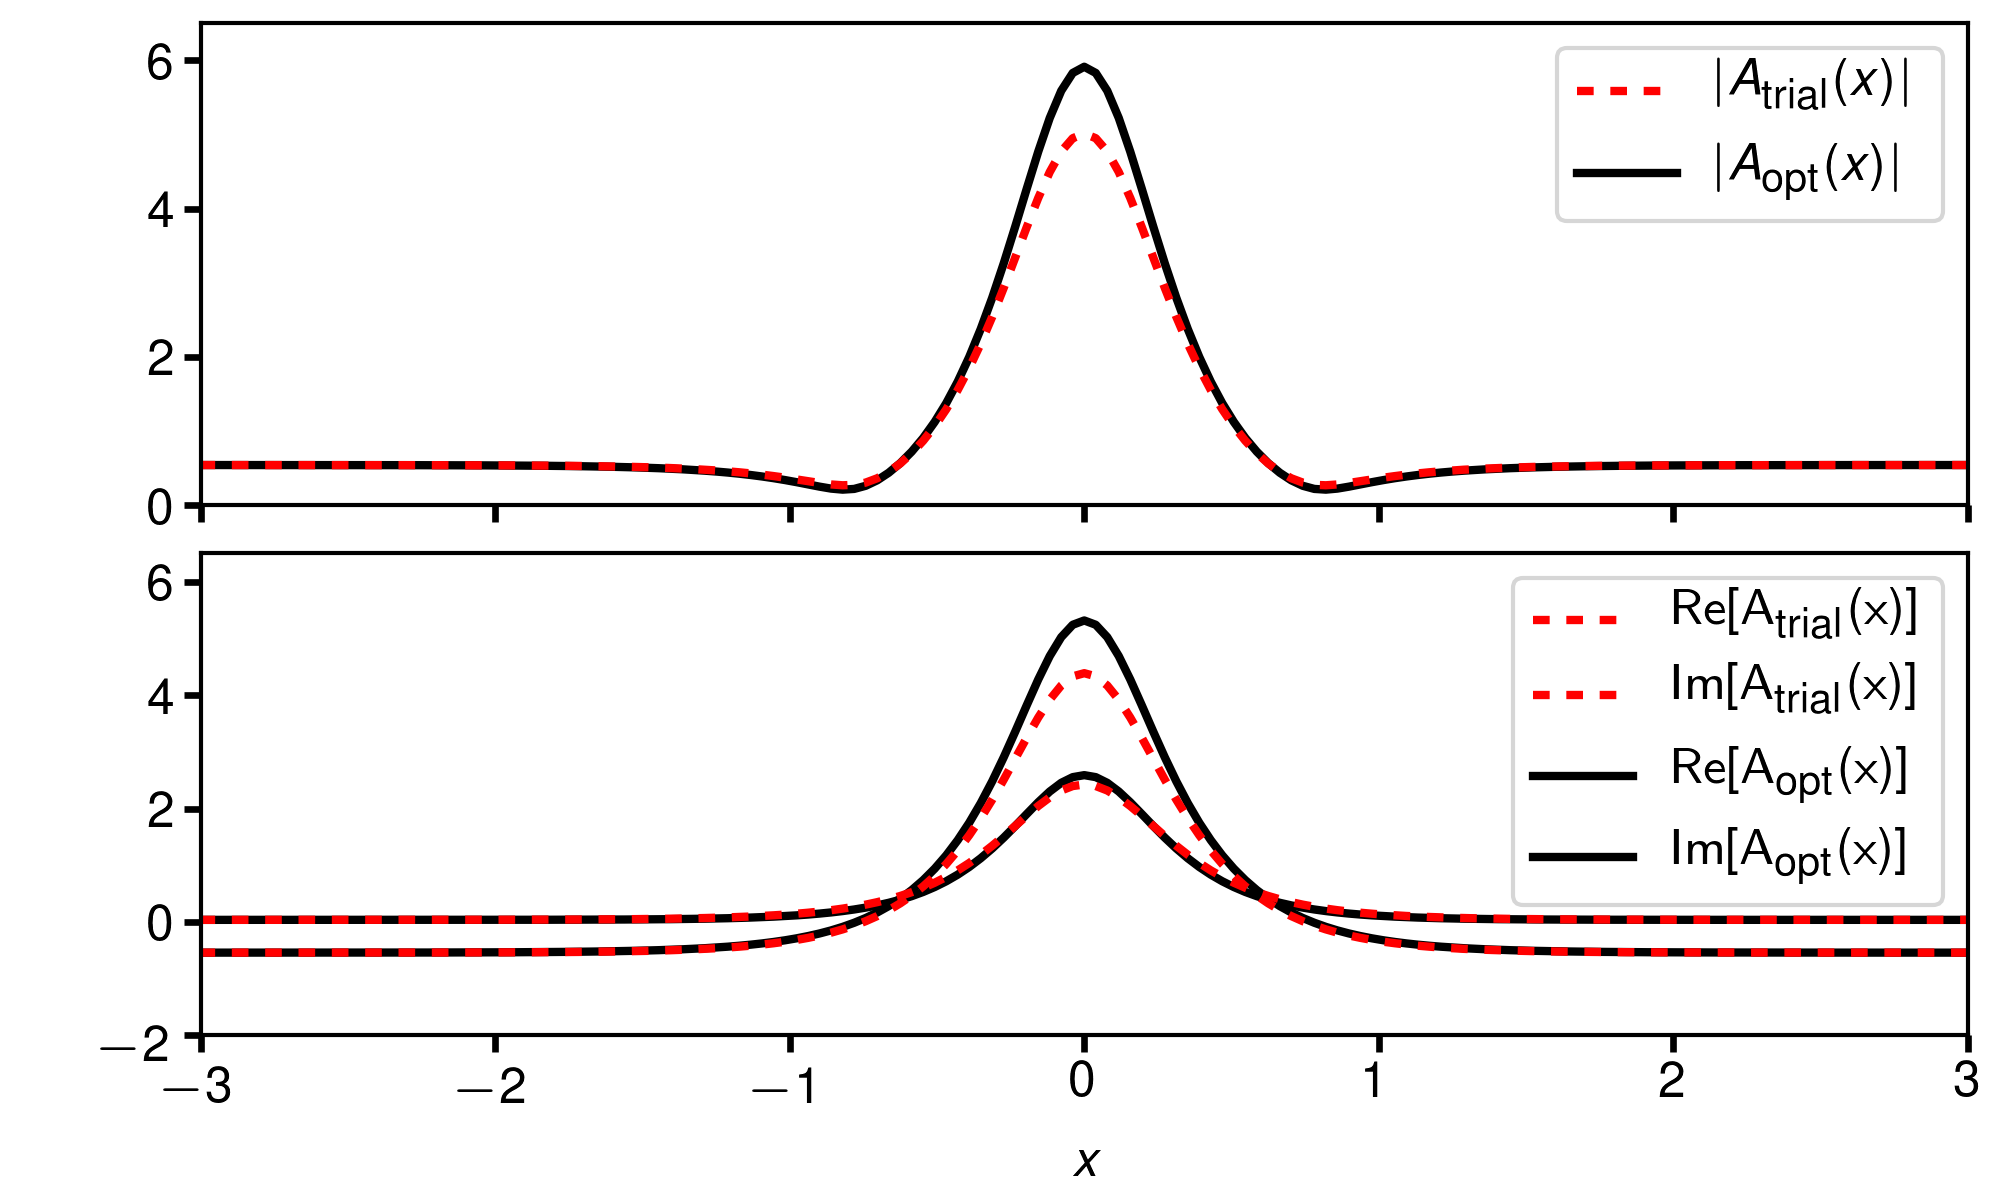
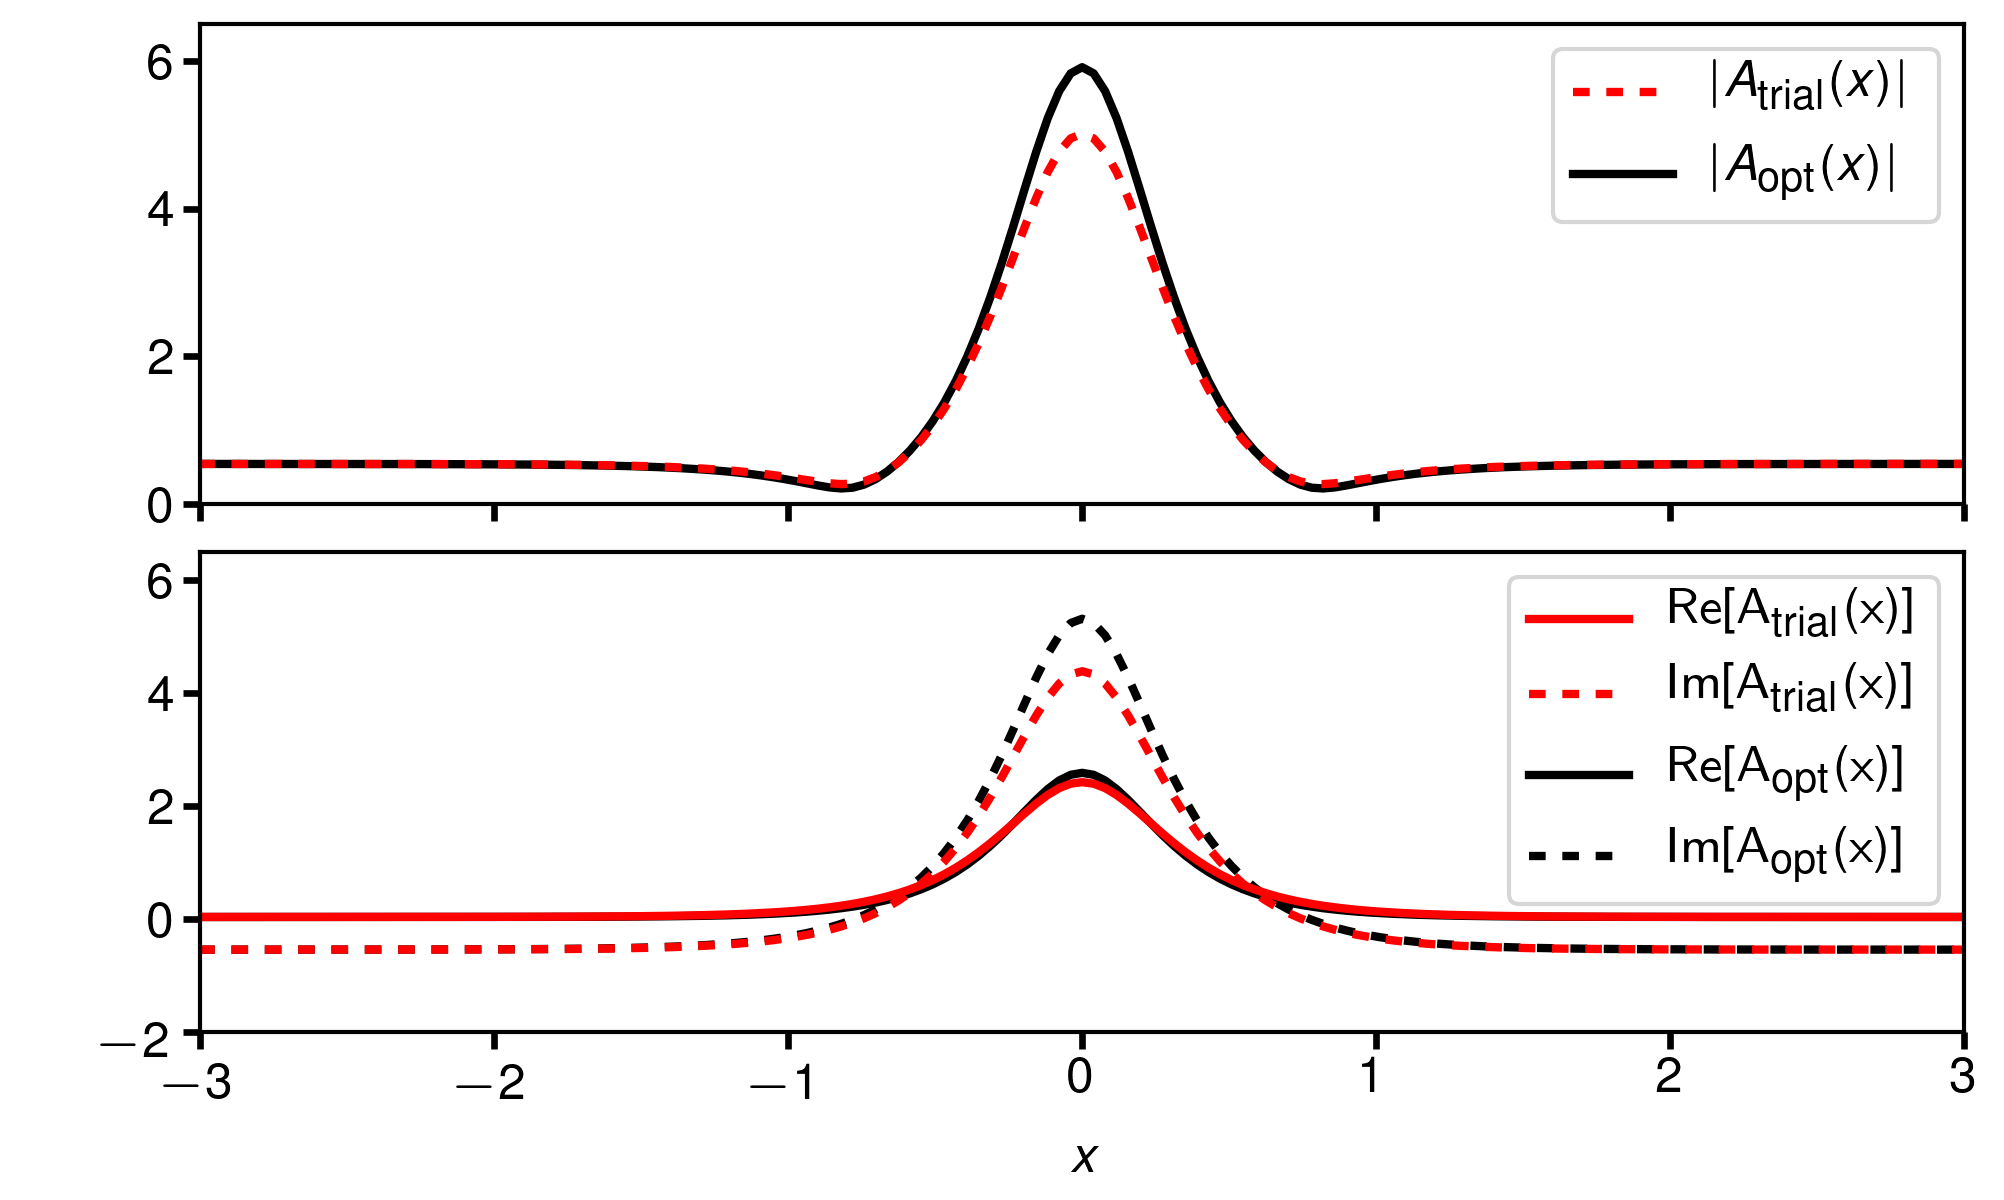
minor edits for python3 compatibility

diff --git a/numExp02_propagationScenarios/pp_figure_propagationScenarios/figure_base_propagationDynamics.py b/numExp02_propagationScenarios/pp_figure_propagationScenarios/figure_base_propagationDynamics.py
@@ -34,12 +34,10 @@ def generateFigure(x, k, t, At, xLim, xTicks, kLim, kTicks, tLim, tTicks, oName,
        r'\sansmath'               # <- tricky! -- gotta actually tell tex to use!
     ]
 
-    #cmap=mpl.cm.get_cmap('CMRmap')
-    #cmap=mpl.cm.get_cmap('gnuplot')
     cmap=mpl.cm.get_cmap('jet')
 
     fig = plt.figure()
-    plt.subplots_adjust(left=0.08, bottom=0.19, right=0.98, top= 0.8, wspace=0.45, hspace=0.05)
+    plt.subplots_adjust(left=0.08, bottom=0.19, right=0.98, top= 0.78, wspace=0.45, hspace=0.05)
 
     gs00 = GridSpec(1,1)
     gsA = GridSpecFromSubplotSpec(6,5,subplot_spec=gs00[0,0],wspace=0.1, hspace=0.1)
@@ -65,7 +63,7 @@ def generateFigure(x, k, t, At, xLim, xTicks, kLim, kTicks, tLim, tTicks, oName,
                             top=True,
                             size=2,
                             labelsize=4.5,
-                            pad=-1.
+                            pad=0.
                             )
 
         cbar.set_ticks((0,0.2,0.4,0.6,0.8,1.))
@@ -104,7 +102,7 @@ def generateFigure(x, k, t, At, xLim, xTicks, kLim, kTicks, tLim, tTicks, oName,
                                 top=True,
                                 size=2,
                                 labelsize=4.5,
-                                pad=-1.
+                                pad=0.
                                 )
 
             dBLabels = np.asarray([-150,-120,-90,-60,-30,0])
@@ -179,10 +177,6 @@ def generateFigure(x, k, t, At, xLim, xTicks, kLim, kTicks, tLim, tTicks, oName,
     axA2t.tick_params(axis='x',bottom=False, top=False)
     axA2t.tick_params(axis='y',left=False, right=False)
 
-    #for i in range(k.size):
-    #    print k[i], Ik_fin[i]
-    #exit()
-
 
     if DO_FORMAT=='png':
         fName = './FIGS/'+oName+'.png'
@@ -192,6 +186,6 @@ def generateFigure(x, k, t, At, xLim, xTicks, kLim, kTicks, tLim, tTicks, oName,
         plt.savefig(fName,format='svg',dpi=600)
     else:
         fName = './FIGS/'+oName+'.png'
-        print '# saved under:', fName
+        print('# saved under:', fName)
         plt.savefig(fName,format='png',dpi=600)
 

diff --git a/numExp01_stationarySolution/pp_figure/main_figure_stationarySolution.py b/numExp01_stationarySolution/pp_figure/main_figure_stationarySolution.py
@@ -71,11 +71,11 @@ def generateFigure():
 
     _setKey(axA1,l1+l2,1)
 
-    l1 = axA2.plot(x,np.real(Ax_ini), color='red', dashes=[2,2], label=r'$\sf{Re}[A_{\rm{trial}}(x)]$',zorder=1)
+    l1 = axA2.plot(x,np.real(Ax_ini), color='red', label=r'$\sf{Re}[A_{\rm{trial}}(x)]$',zorder=1)
     l2 = axA2.plot(x,np.real(Ax_opt), color='k', label=r'$\sf{Re}[A_{\rm{opt}}(x)]$',zorder=0)
 
     l3 = axA2.plot(x,np.imag(Ax_ini), color='red', dashes=[2,2], label=r'$\sf{Im}[A_{\rm{trial}}(x)]$',zorder=1)
-    l4 = axA2.plot(x,np.imag(Ax_opt), color='k', label=r'$\sf{Im}[A_{\rm{opt}}(x)]$',zorder=0)
+    l4 = axA2.plot(x,np.imag(Ax_opt), color='k', dashes=[2,2], label=r'$\sf{Im}[A_{\rm{opt}}(x)]$',zorder=0)
 
     axA2.xaxis.set_ticks_position('bottom')
     axA2.yaxis.set_ticks_position('left')
@@ -98,7 +98,7 @@ def generateFigure():
         plt.savefig(fName,format='svg',dpi=600)
     else:
         fName = './FIGS/stationarysolution.png'
-        print '# saved under:', fName
+        print('# saved under:', fName)
         plt.savefig(fName,format='png',dpi=600)
 
 
